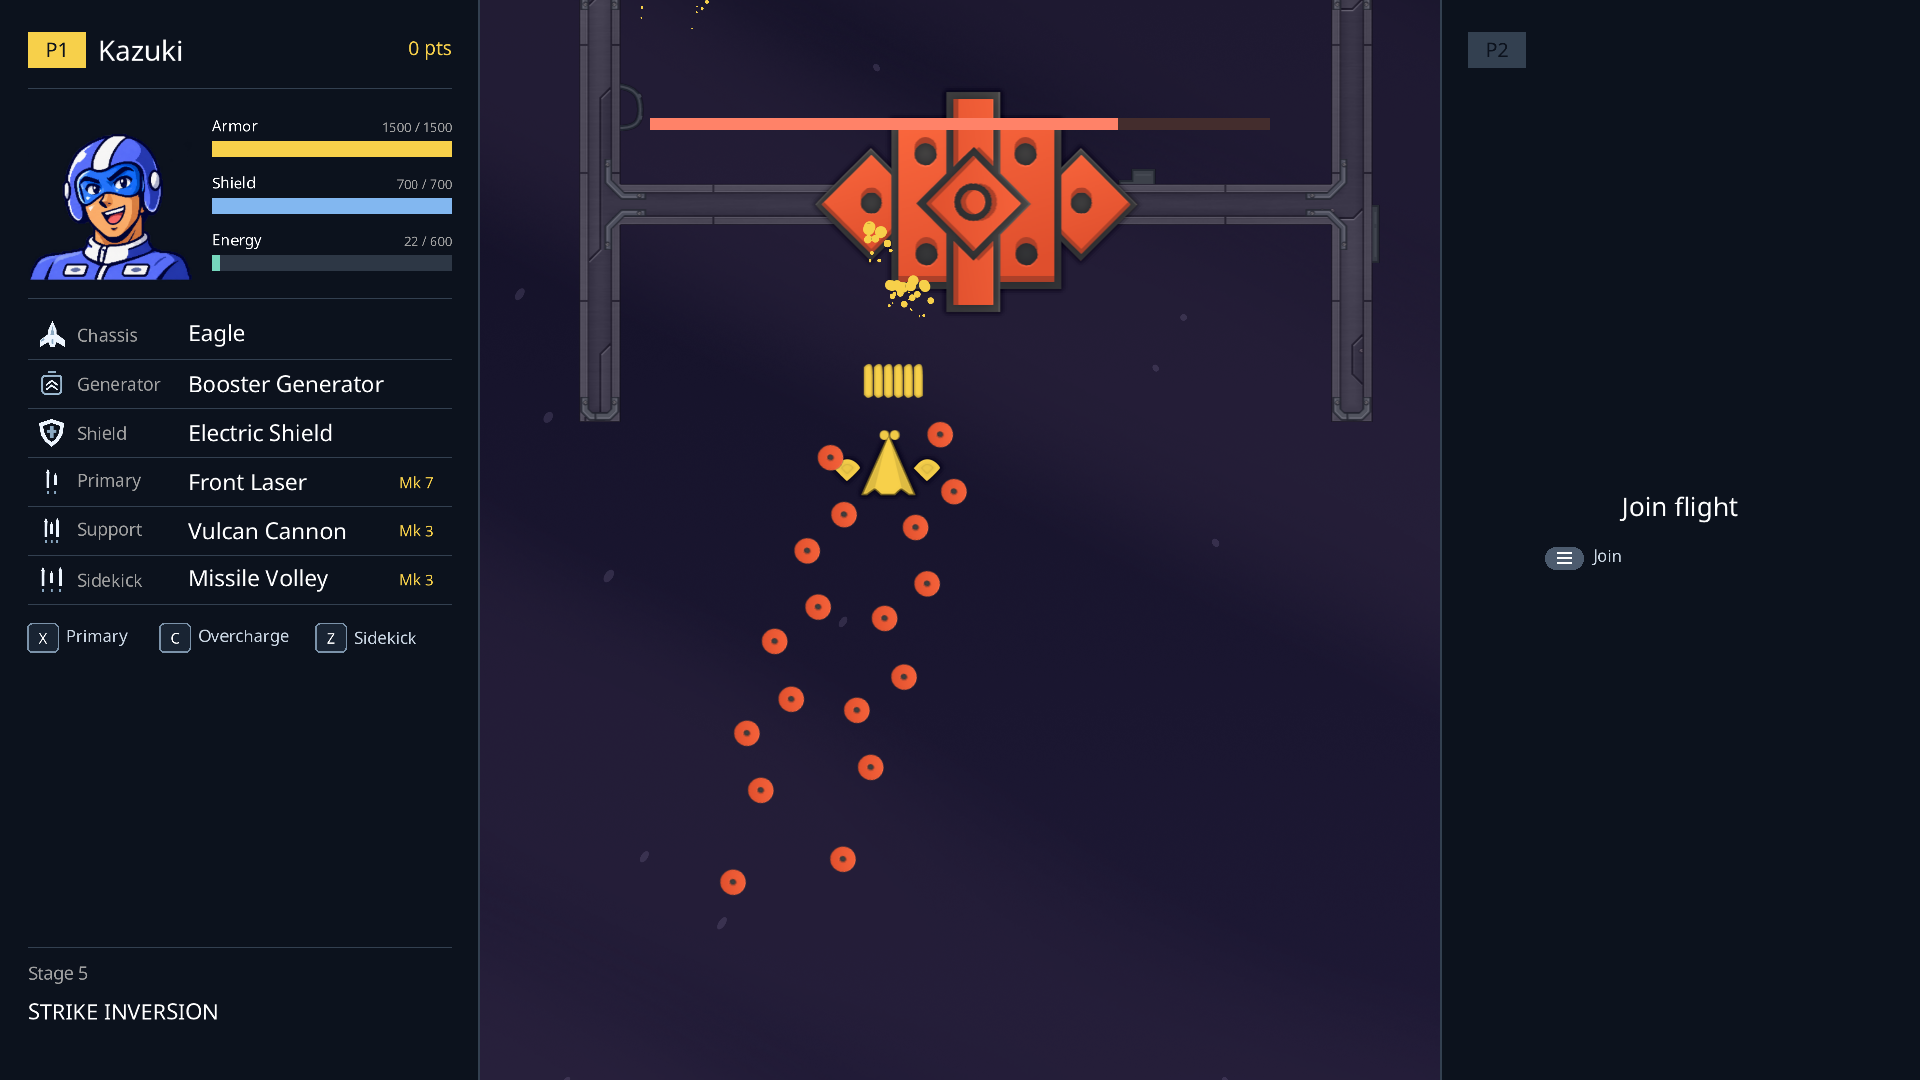
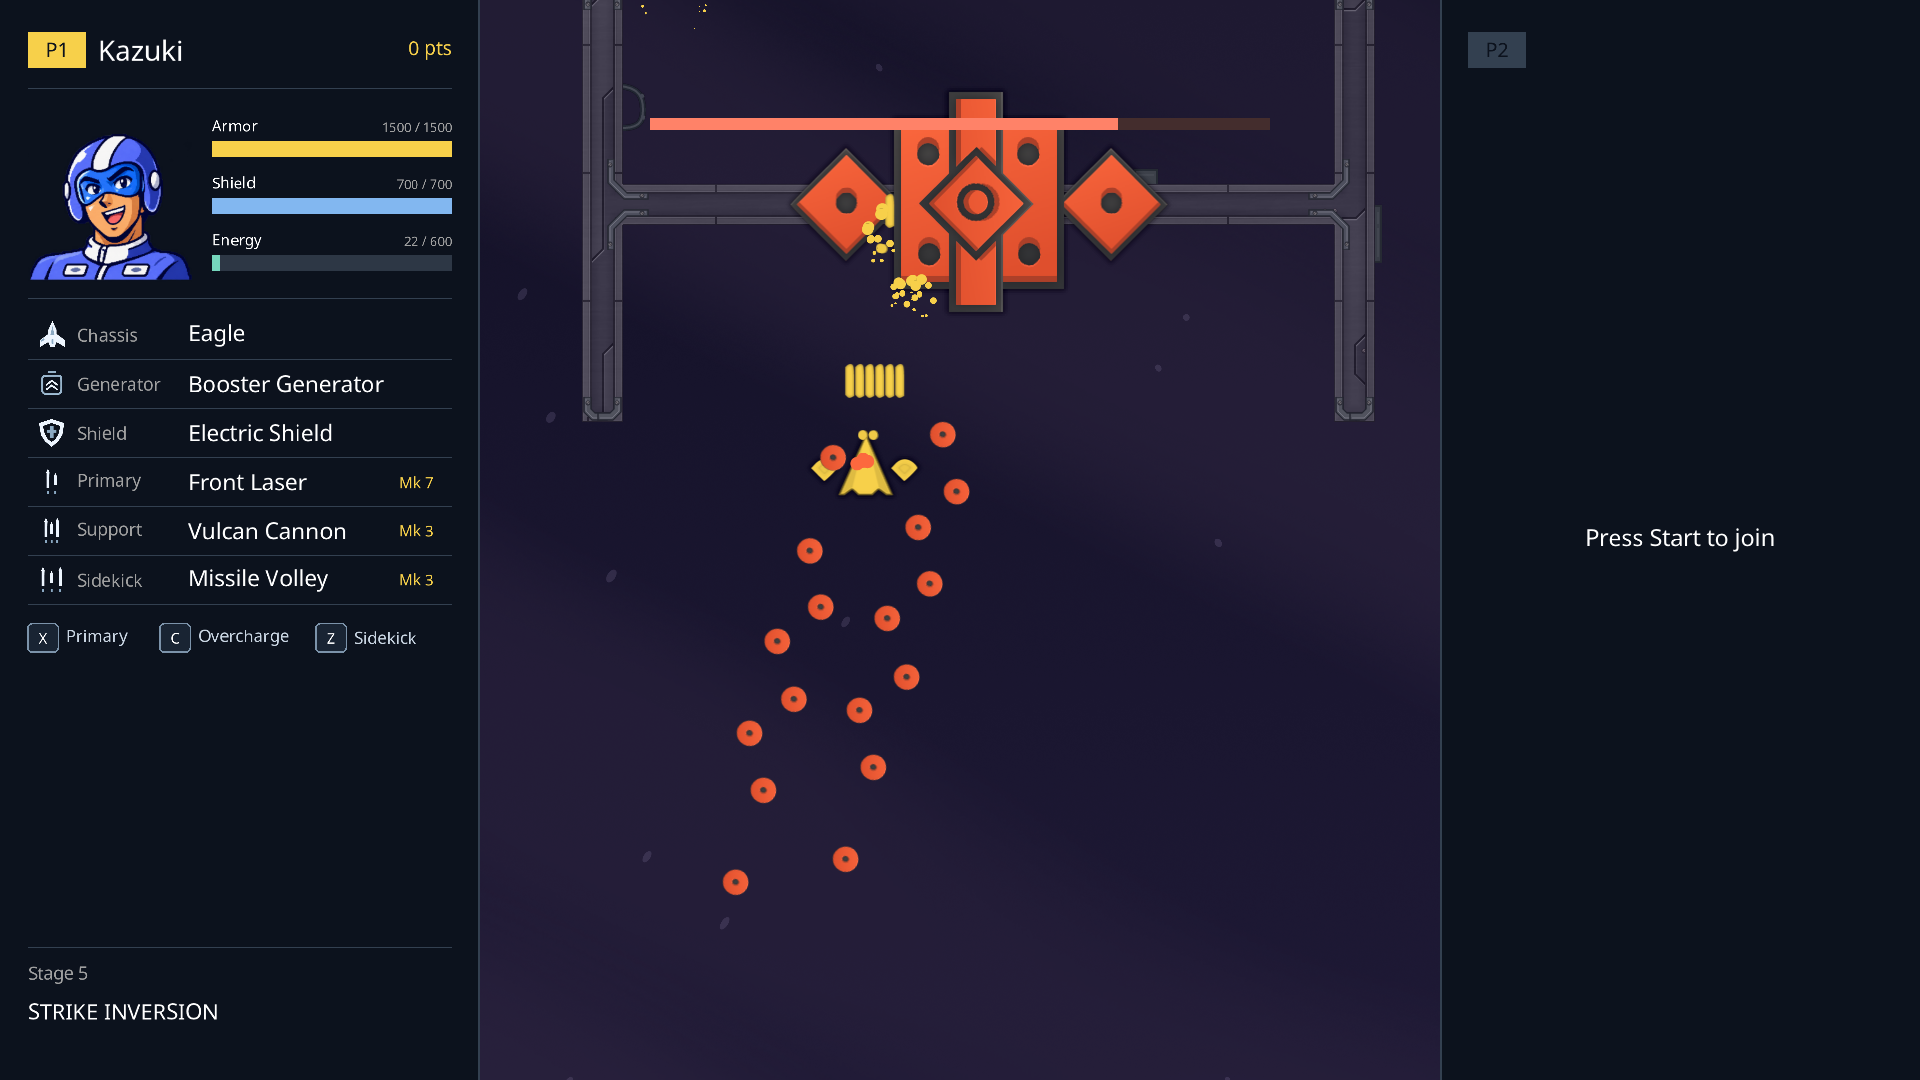
Simplify the empty player join prompt.

diff --git a/src/app.c b/src/app.c
@@ -943,7 +943,7 @@ static void resource_meter(Font font, int x, int y, const char *label, float val
 
 static const char *pilot_names[] = {"Kazuki", "Rabbit", "Gunthor"};
 
-static void draw_pilot_rail(const Assets *assets, const Player *p, const Player *preview, int slot, bool shopping, bool keyboard_free) {
+static void draw_pilot_rail(const Assets *assets, const Player *p, const Player *preview, int slot, bool shopping) {
     Font font = assets->ui_font;
     int x = slot ? ARENA_X + GAME_WIDTH : 0, left = x + 28, width = ARENA_X - 56;
     Color highlight = player_colors[slot];
@@ -960,9 +960,10 @@ static void draw_pilot_rail(const Assets *assets, const Player *p, const Player 
         return;
     }
     if (!p->joined) {
-        text_center(font, ui_text("Join flight"), x + 240, 488, 36, WHITE);
-        button_prompt(font,x+105,543,0,GLYPH_START,"Join");
-        if (keyboard_free) key_prompt(font,x+245,543,"F2",ui_text("Join"));
+        const char *prompt = ui_text("Press Start to join");
+        float size = fitted_size(font,prompt,32,width);
+        text_on_axis(font,prompt,x+(ARENA_X-MeasureTextEx(font,prompt,size,0).x)/2,
+                     GAME_HEIGHT/2,size,WHITE);
         return;
     }
     text_on_axis(font,ui_text(pilot_names[p->pilot]),left+70,50,38,WHITE);
@@ -1040,9 +1041,9 @@ static void draw_weapon_controls(Font font, const Player *pilot, int device) {
     }
 }
 
-static void draw_flight_rail(const Game *game, const Assets *assets, int slot, bool keyboard_free) {
+static void draw_flight_rail(const Game *game, const Assets *assets, int slot) {
     const Player *p = &game->players[slot];
-    draw_pilot_rail(assets,p,p,slot,false,keyboard_free);
+    draw_pilot_rail(assets,p,p,slot,false);
     int x = (slot ? ARENA_X + GAME_WIDTH : 0) + 28;
     Font font = assets->ui_font;
     if (slot == 0) {
@@ -1153,8 +1154,7 @@ static void draw_game(const Game *game, Assets *assets, const PlayerDevices *dev
         DrawRectangle(ARENA_X + 170, 118, 620, 12, (Color){68, 45, 45, 255});
         DrawRectangle(ARENA_X + 170, 118, (int)(620 * enemy->health / enemy->health_max), 12, danger);
     }
-    bool keyboard_free = input_owner(devices,INPUT_KEYBOARD) < 0;
-    for (int i=0; i<GAME_PLAYERS; ++i) draw_flight_rail(game,assets,i,keyboard_free);
+    for (int i=0; i<GAME_PLAYERS; ++i) draw_flight_rail(game,assets,i);
     int lead = game->players[0].joined ? 0 : 1;
     if (game->menu.page == MENU_NONE && game->players[lead].joined)
         draw_weapon_controls(assets->ui_font,&game->players[lead],devices->flight_device[lead]);
@@ -1422,14 +1422,14 @@ static bool draw_shop_catalog(const Game *game, const Assets *assets, int slot, 
     return show_select;
 }
 
-static void draw_shop_panel(const Game *game, const Assets *assets, int slot, int device, int offset, bool keyboard_free) {
+static void draw_shop_panel(const Game *game, const Assets *assets, int slot, int device, int offset) {
     Font font = assets->ui_font;
     int x = slot ? ARENA_X + GAME_WIDTH : 0, left = x + 28, width = ARENA_X - 56;
     Color highlight = player_colors[slot];
     const Player *p = &game->players[slot];
     const GameMenu *menu = &game->menu;
     const Player *preview = shop_preview.players[slot].joined ? &shop_preview.players[slot] : p;
-    draw_pilot_rail(assets,p,preview,slot,true,keyboard_free);
+    draw_pilot_rail(assets,p,preview,slot,true);
     if (!p->joined) return;
     int cat = menu->shop_category[slot];
     DrawLine(left, 298, left + width, 298, rule);
@@ -1523,7 +1523,7 @@ static void draw_shop(const Game *game, const Assets *assets, float frame, const
         }
         previous_depth[slot] = depth;
         int offset = menu_slide_offset(frame-changed_at[slot],direction[slot]);
-        draw_shop_panel(game, assets, slot, devices->player_prompt[slot], offset,input_owner(devices,INPUT_KEYBOARD)<0);
+        draw_shop_panel(game, assets, slot, devices->player_prompt[slot], offset);
     }
     bool both = game->players[0].joined && game->players[1].joined &&
         game->menu.shop_purchase[0] && game->menu.shop_purchase[1];
